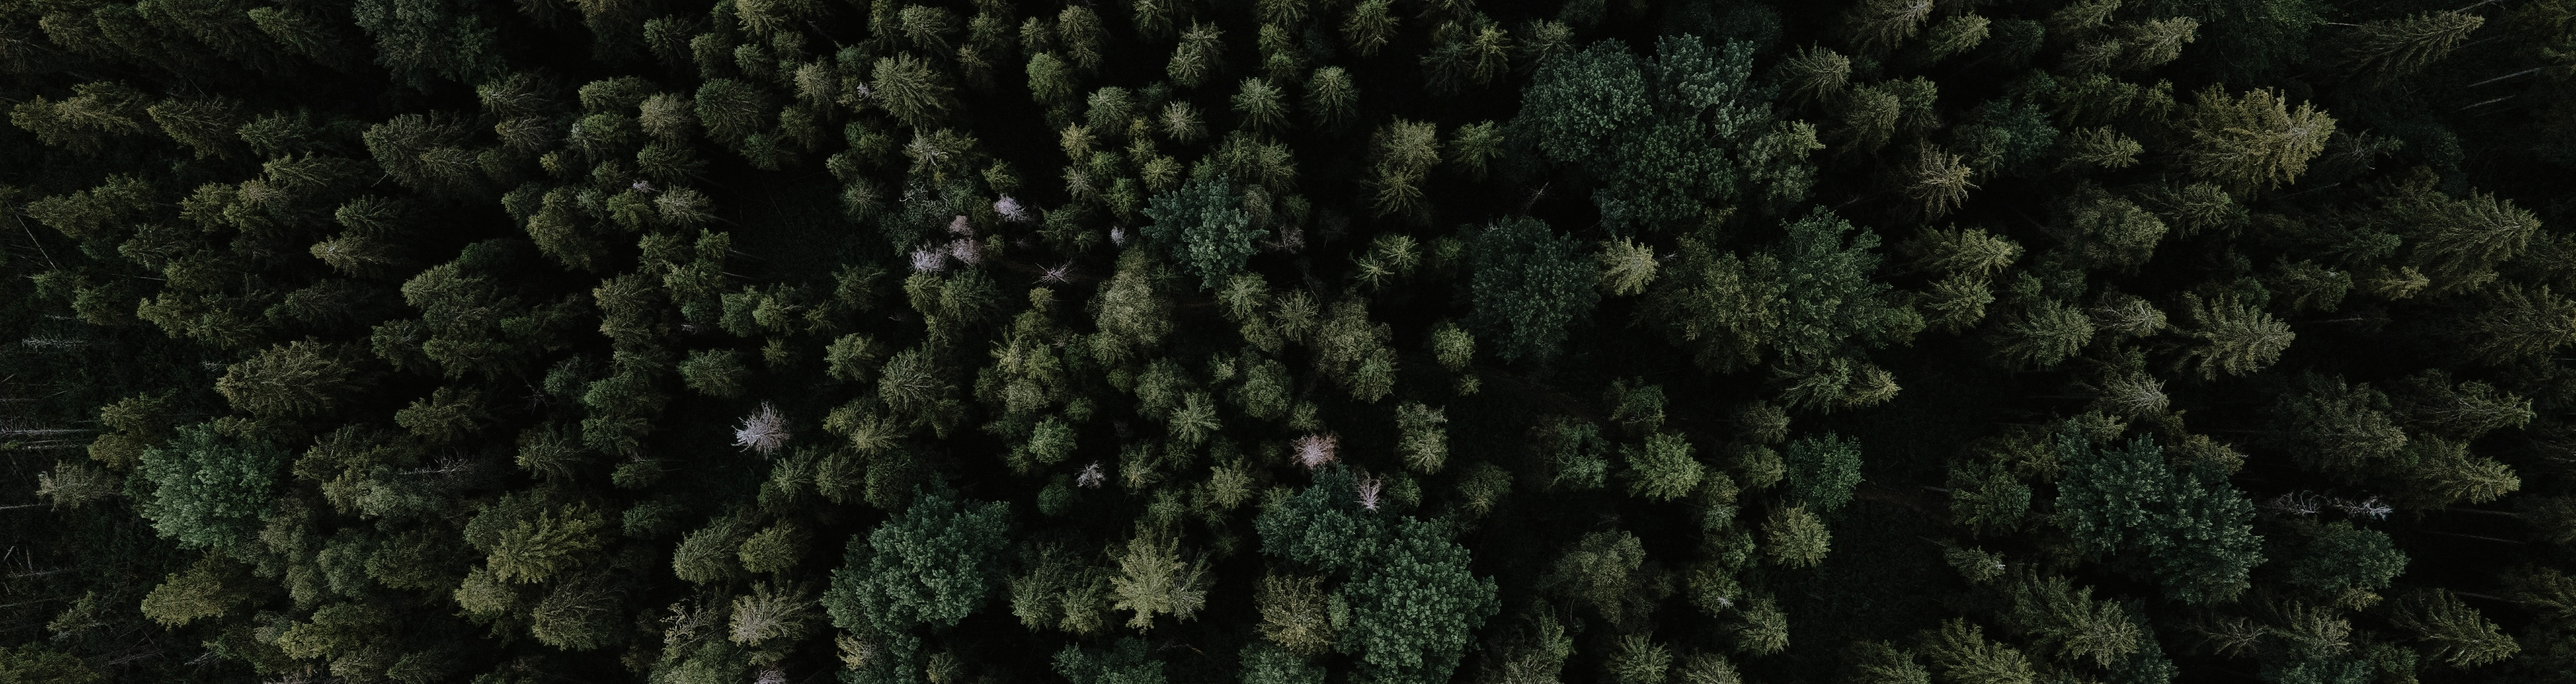
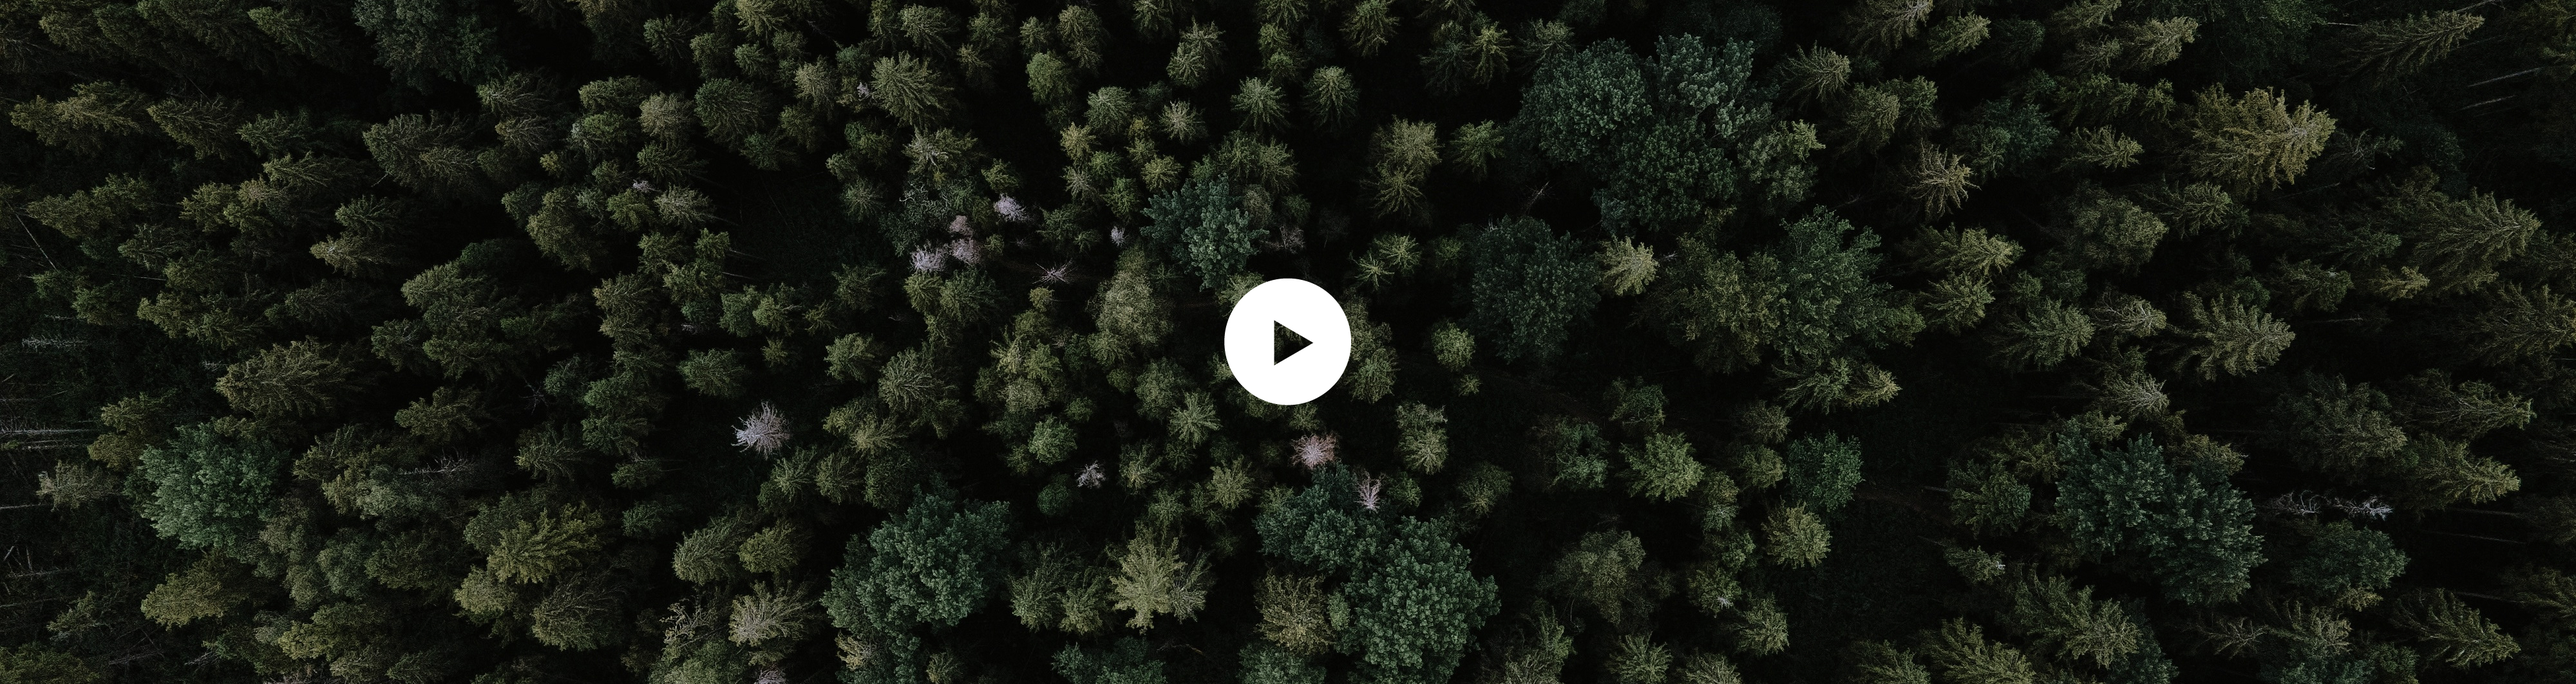
playknapp för bakgrundsbilden

Changed region(s): [[0.4688, 0.4036, 0.5312, 0.5898]]

diff --git a/index.html b/index.html
@@ -16,7 +16,7 @@
                 <li><a href="survey.html">Formulär</a></li>
             </ul>
         </nav>
-       <img src="bunkern_bakgrundsbild.jpg" width="2000px">
+       <img src= "bunkern_bakgrundsbild.jpg" width="100%">
     </header>
     <main>
         <h1>Bunkern</h1>
